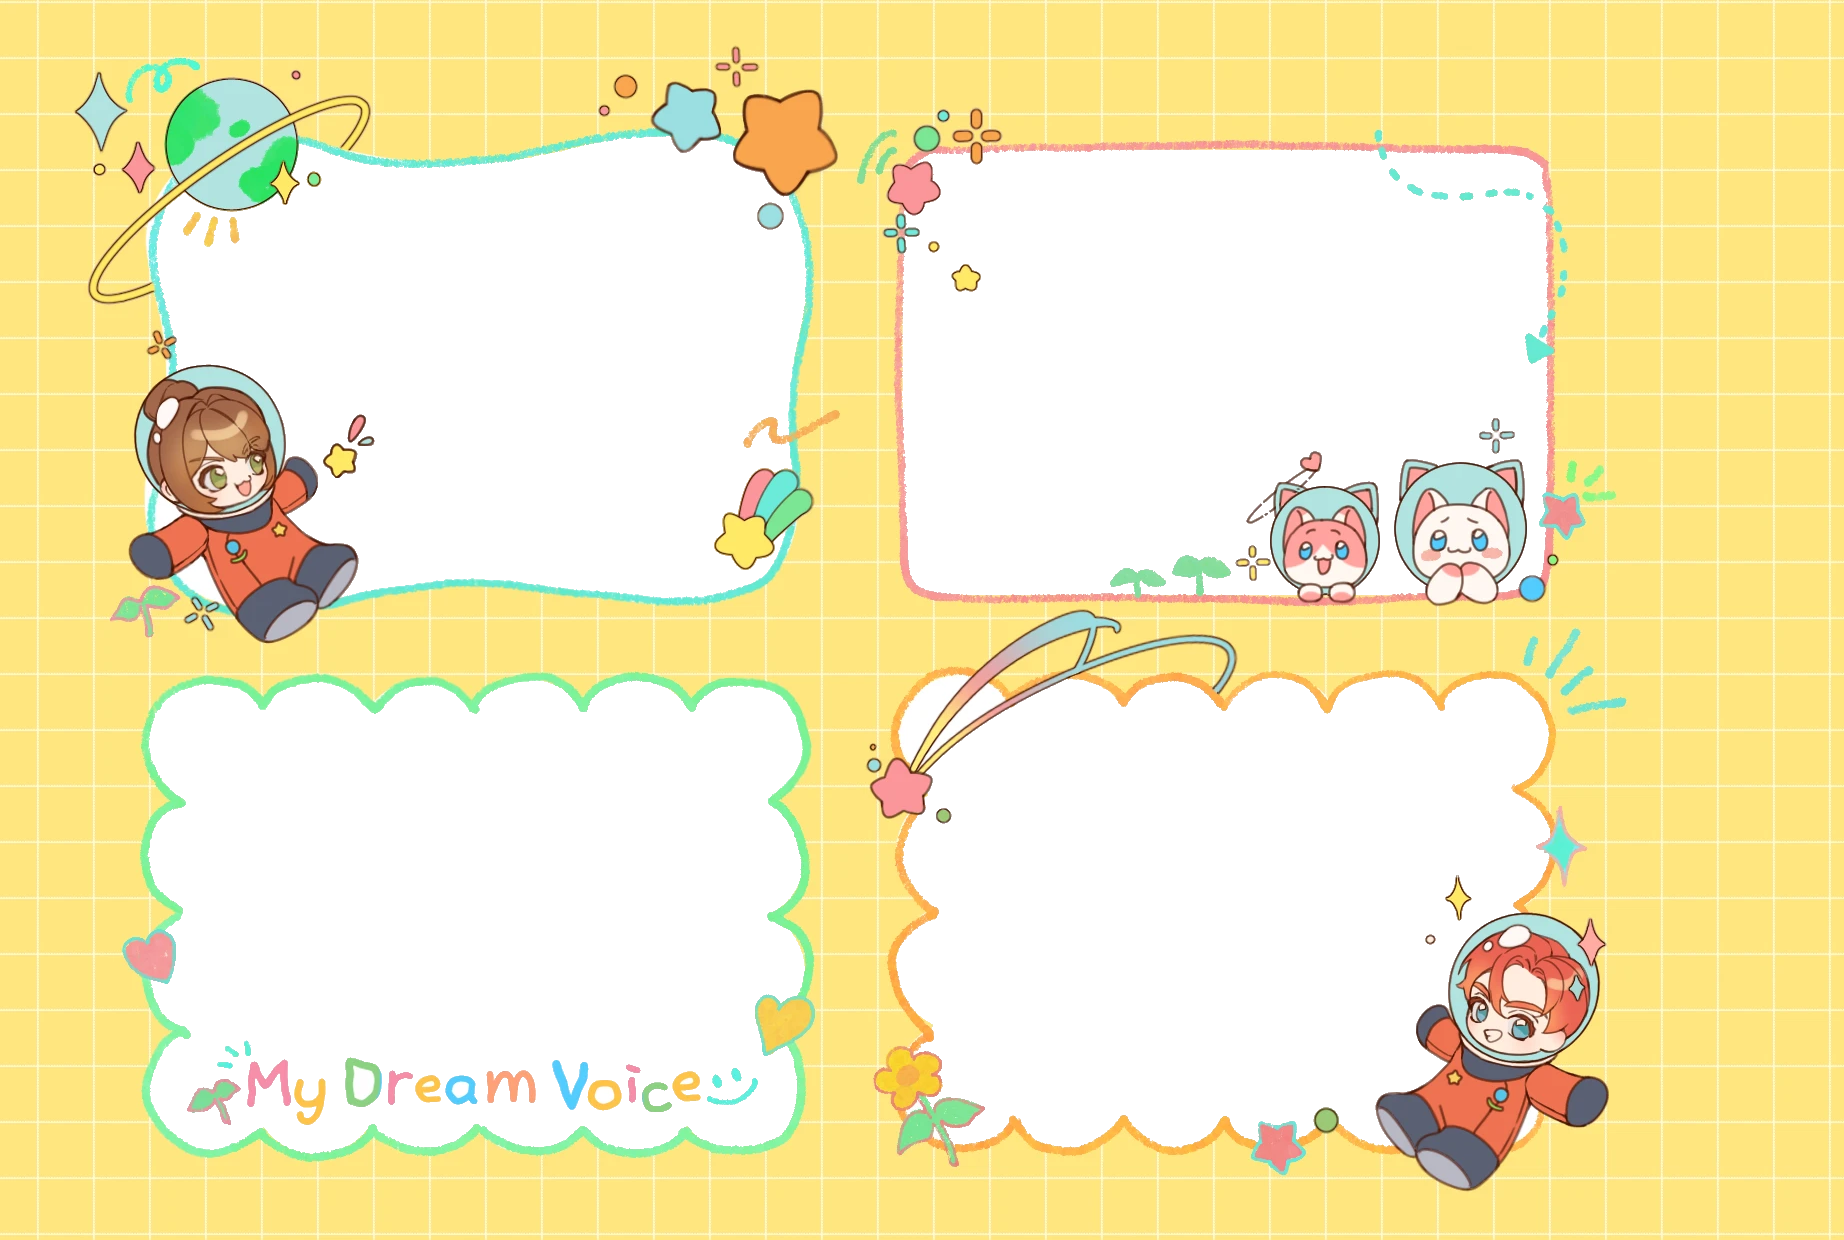
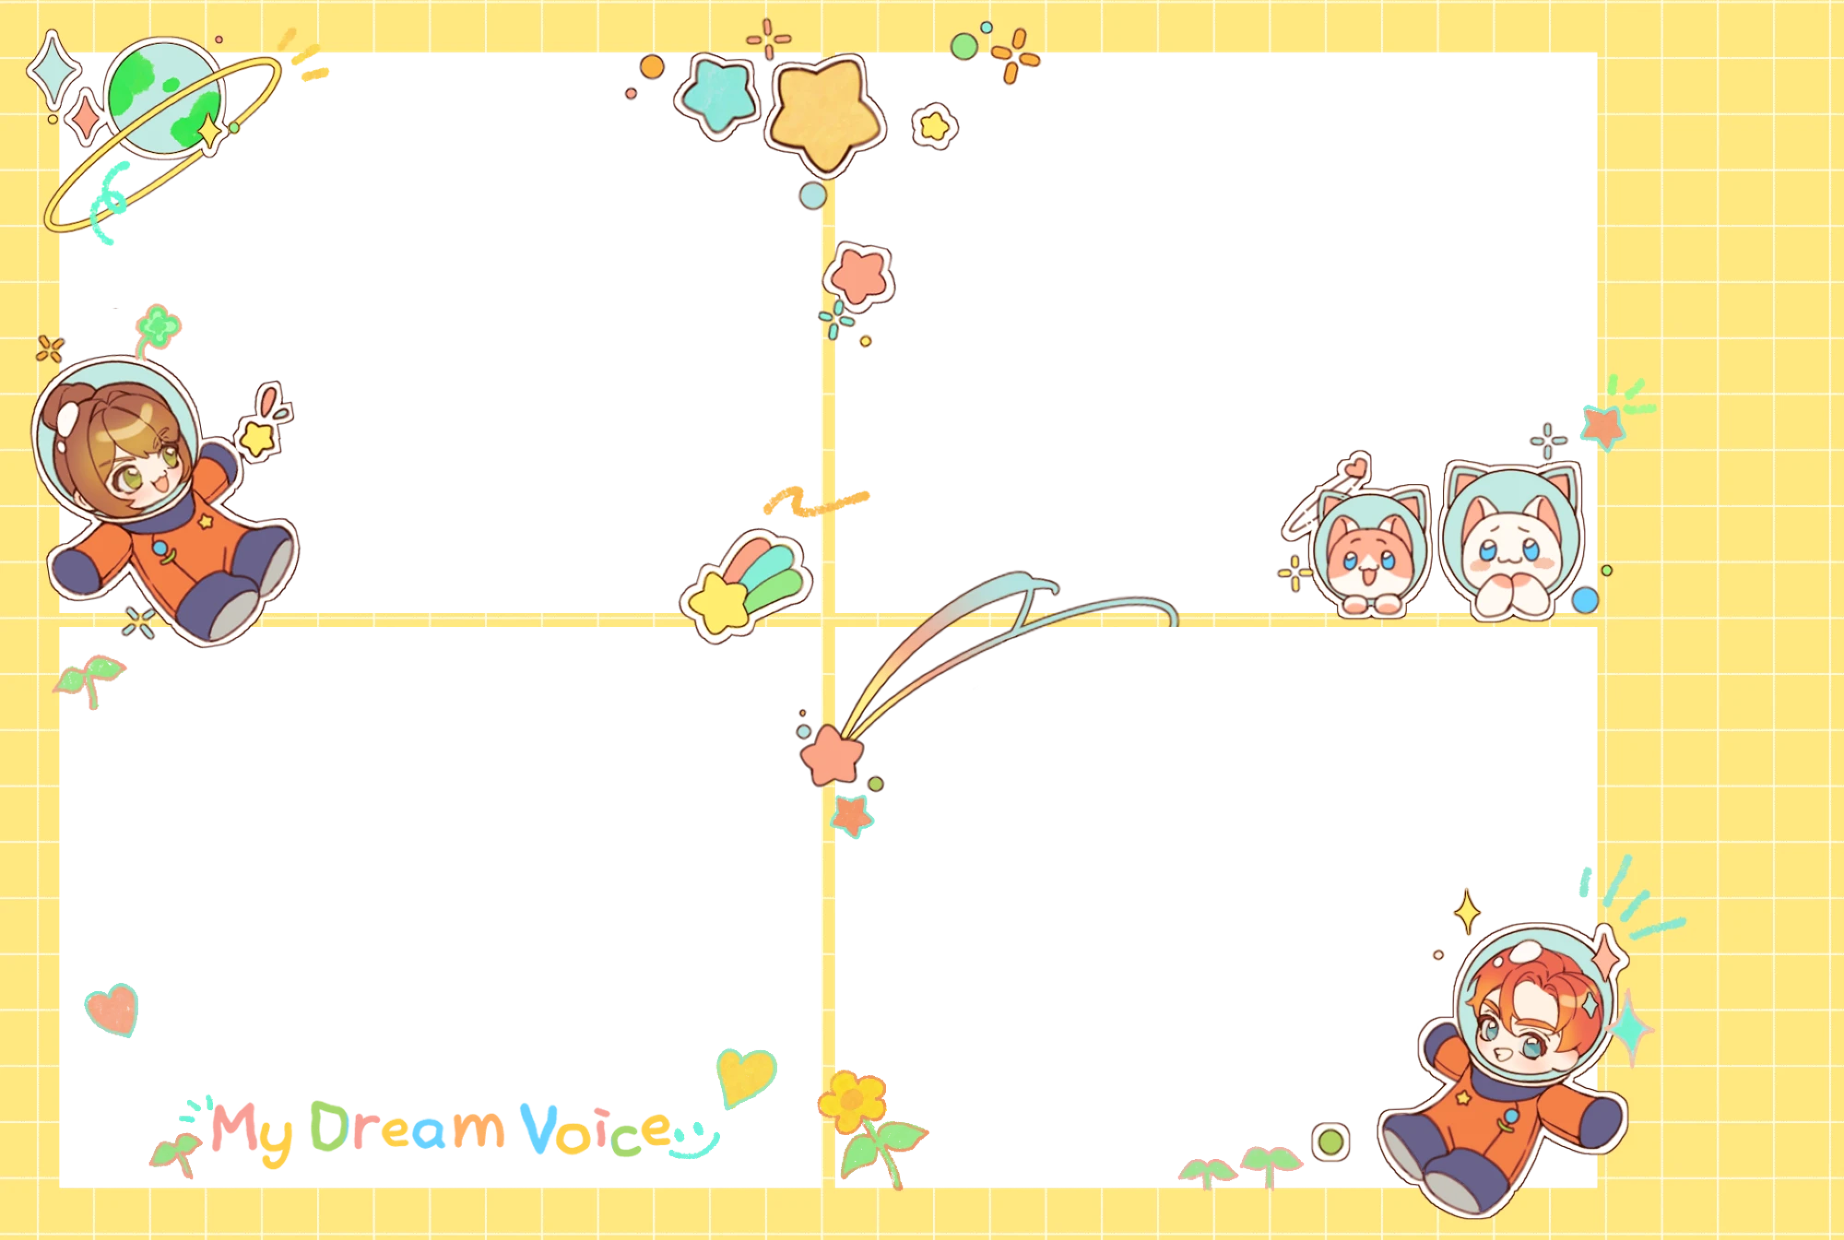
우주비행사 네컷 프레임 새 그림으로 — 칸 좌표를 직업별로(FOURCUT.cellsByJob · cellsFor)
- 새 그림 2000×1349 → 1844×1240 (칸은 이미 투명 · 옛 QR 자리 흰 네모는 격자 바탕으로 덮음)
- 우주비행사 칸 4개 768×567 (구멍 762×561 + 둘레 3px) — 나머지 5장은 그대로
- 합성 · 미리보기 · P-06 라이브뷰 비율과 겹친 프레임 · 촬영 장면 녹화가 직업 프레임의 칸을 따른다
- D-01 300dpi 확인은 가장 큰 칸 기준

diff --git a/kiosk/src/renderer/photo/recordLiveView.ts b/kiosk/src/renderer/photo/recordLiveView.ts
@@ -10,7 +10,7 @@
  *  - 기기 안에만 둔다 — 서버로 보내지 않고, 체험이 끝나면 세션 폴더째 지워진다 (CLAUDE.md 금지사항 4).
  *    이 파일은 Blob만 만든다. 저장은 화면이 window.api.video.save로 메인에 맡긴다.
  *  - 소리는 녹음하지 않는다 (영상 트랙뿐이다)
- *  - 화면에 보이는 것과 같은 가운데 잘라내기(CELL_ASPECT)로, **좌우 반전하지 않은 원본 방향**으로 담는다.
+ *  - 화면에 보이는 것과 같은 가운데 잘라내기(cellAspect — 고른 직업 프레임의 칸 비율)로, **좌우 반전하지 않은 원본 방향**으로 담는다.
  *    거울처럼 보여 주는 것은 재생하는 쪽(P-07)이 한다
  *  - ⚠ 녹화는 덤이다. 지원하지 않거나 캔버스가 잠기면(SecurityError) 조용히 영상 없이 간다.
  *    촬영 · 카운트다운을 막거나 늦추지 않도록, 여기의 어떤 함수도 예외를 던지거나 거절하지 않는다
@@ -22,7 +22,6 @@
  * TODO(디자인): 영상 길이 · 구간(컷마다 몇 초만 담을지 등)은 디자인 때 정한다 (PAGE_SPEC P-06)
  */
 
-import { CELL_ASPECT } from './composeFourCut'
 
 /** 녹화 폭 상한(px) — 라이브뷰가 더 작으면 그 크기를 쓴다 */
 const MAX_WIDTH = 960
@@ -62,9 +61,10 @@ function pickMimeType(): string | null {
 function coverCrop(
   width: number,
   height: number,
+  aspect: number,
 ): { sx: number; sy: number; sw: number; sh: number } {
-  const sw = Math.min(width, height * CELL_ASPECT)
-  const sh = Math.min(height, width / CELL_ASPECT)
+  const sw = Math.min(width, height * aspect)
+  const sh = Math.min(height, width / aspect)
   return { sx: (width - sw) / 2, sy: (height - sh) / 2, sw, sh }
 }
 
@@ -85,6 +85,8 @@ function even(n: number): number {
  */
 export function startLiveViewRecording(
   img: HTMLImageElement,
+  /** 담을 비율 — 사진 칸의 가로 ÷ 세로 (composeFourCut.cellAspect) */
+  aspect: number,
   onStatus?: (status: 'recording' | 'failed') => void,
 ): LiveViewRecording | null {
   const picked = pickMimeType()
@@ -145,7 +147,7 @@ export function startLiveViewRecording(
     const { naturalWidth, naturalHeight } = img
     if (!naturalWidth || !naturalHeight) return
     try {
-      const { sx, sy, sw, sh } = coverCrop(naturalWidth, naturalHeight)
+      const { sx, sy, sw, sh } = coverCrop(naturalWidth, naturalHeight, aspect)
       ctx.drawImage(img, sx, sy, sw, sh, 0, 0, canvas.width, canvas.height)
     } catch {
       /* 이번 장만 건너뛴다 (스트림이 잠깐 끊긴 경우 등) */
@@ -158,11 +160,11 @@ export function startLiveViewRecording(
     if (!naturalWidth || !naturalHeight) return // 아직 첫 프레임 전
 
     try {
-      const { sw } = coverCrop(naturalWidth, naturalHeight)
+      const { sw } = coverCrop(naturalWidth, naturalHeight, aspect)
       const width = even(Math.min(MAX_WIDTH, sw))
       canvas = document.createElement('canvas')
       canvas.width = width
-      canvas.height = even(width / CELL_ASPECT)
+      canvas.height = even(width / aspect)
       ctx = canvas.getContext('2d', { alpha: false })
       if (!ctx) throw new Error('2D 컨텍스트를 만들 수 없습니다')
 

diff --git a/kiosk/src/renderer/photo/composeFourCut.ts b/kiosk/src/renderer/photo/composeFourCut.ts
@@ -22,8 +22,19 @@ import { FOURCUT, type Rect } from '@shared/constants'
 import { JOB_BY_ID, jobLabel } from '@shared/jobs'
 import type { JobId } from '@shared/types'
 
+/**
+ * 그 직업 프레임의 사진 칸 4개 — 프레임마다 칸 자리가 다를 수 있다 (FOURCUT.cellsByJob · 없으면 FOURCUT.cells).
+ * 합성 · 미리보기(FramePreview) · 촬영 라이브뷰(P-06) · 촬영 장면 녹화가 모두 이것을 쓴다.
+ */
+export function cellsFor(job: JobId): readonly Rect[] {
+  return FOURCUT.cellsByJob[job] ?? FOURCUT.cells
+}
+
 /** 사진 칸 가로 ÷ 세로 — P-06 촬영 프리뷰가 이 비율로 잘라 보여 줘야 인쇄물과 같은 구도가 된다 */
-export const CELL_ASPECT: number = FOURCUT.cells[0]!.width / FOURCUT.cells[0]!.height
+export function cellAspect(job: JobId): number {
+  const cell = cellsFor(job)[0]!
+  return cell.width / cell.height
+}
 
 // ────────────────────────────────────────────────────────────
 // 프레임 아트 (있으면 쓰고, 없으면 placeholder)
@@ -204,7 +215,7 @@ function newCanvas(): { canvas: HTMLCanvasElement; ctx: CanvasRenderingContext2D
 
 /**
  * 칸을 꽉 채우도록 가운데를 잘라 그린다 (CSS object-fit: cover 와 같은 결과).
- * 카메라 원본은 3:2 — 칸 비율(CELL_ASPECT)과 다른 만큼 위아래나 좌우가 잘린다.
+ * 카메라 원본은 3:2 — 칸 비율(cellAspect)과 다른 만큼 위아래나 좌우가 잘린다.
  * **거울처럼 좌우 반전해서 그린다** (2026-11-23 지정) — P-06 라이브뷰에서 본 모습 그대로 인쇄되게
  * (오른손을 들면 사진에서도 오른쪽 · 옷의 글씨는 거꾸로). 사진만 뒤집고 프레임 그림은 뒤집지 않는다.
  */
@@ -244,13 +255,13 @@ async function drawFrame(ctx: CanvasRenderingContext2D, job: JobId): Promise<voi
 
 /**
  * 촬영한 네 컷을 고른 직업 프레임 한 장에 합성한다.
- * @param shots 컷 4개 (FOURCUT.cells 순서 — 왼쪽 위 → 오른쪽 위 → 왼쪽 아래 → 오른쪽 아래)
+ * @param shots 컷 4개 (cellsFor(job) 순서 — 왼쪽 위 → 오른쪽 위 → 왼쪽 아래 → 오른쪽 아래)
  * @returns PNG dataURL (1844 × 1240)
  */
 export async function composeFourCut(shots: ImageBitmap[], job: JobId): Promise<string> {
   const { canvas, ctx } = newCanvas()
 
-  FOURCUT.cells.forEach((cell, i) => {
+  cellsFor(job).forEach((cell, i) => {
     const shot = shots[i]
     if (shot) drawCover(ctx, shot, cell)
     else fillCell(ctx, cell) // 컷이 모자라면 빈 칸으로 — 눈에 보이게
@@ -267,7 +278,7 @@ export async function composeFourCut(shots: ImageBitmap[], job: JobId): Promise<
 export async function composePlaceholderFourCut(job: JobId): Promise<string> {
   const { canvas, ctx } = newCanvas()
 
-  FOURCUT.cells.forEach((cell, i) => {
+  cellsFor(job).forEach((cell, i) => {
     fillCell(ctx, cell)
 
     const cx = cell.x + cell.width / 2

diff --git a/kiosk/src/renderer/photo/FramePreview.tsx b/kiosk/src/renderer/photo/FramePreview.tsx
@@ -5,7 +5,7 @@
  * 근거: PAGE_SPEC P-04 · P-06 · SPEC §4-1 · 구성 스케치 docs/user-flow/wf/p04-job.svg · print.svg
  *
  * 인쇄되는 네컷(photo/composeFourCut.ts)을 화면에 작게 옮긴 것이다 — 캔버스가 아니라 DOM/CSS 로 그린다.
- * 칸 · 띠 위치는 FOURCUT 좌표를 % 로 바꿔 놓으므로 좌표를 다시 적지 않는다.
+ * 칸 · 띠 위치는 FOURCUT 좌표(칸은 직업 프레임마다 — cellsFor)를 % 로 바꿔 놓으므로 좌표를 다시 적지 않는다.
  *
  * 프레임 아트(public/frames/<jobId>.png — 직업마다 어느 파일인지는 composeFourCut.ts 의 FRAME_FILE · 2026-11-23 직업별 6장)가
  * 있으면 사진 위에 얹고,
@@ -18,7 +18,7 @@ import { useEffect, useState, type CSSProperties, type ReactNode } from 'react'
 import { FOURCUT, type Rect } from '@shared/constants'
 import { JOB_BY_ID, jobLabel } from '@shared/jobs'
 import type { JobId } from '@shared/types'
-import { PLACEHOLDER_FRAME_COPY, loadFrameArt, peekFrameArt } from './composeFourCut'
+import { PLACEHOLDER_FRAME_COPY, cellsFor, loadFrameArt, peekFrameArt } from './composeFourCut'
 import '../styles/frame.css'
 
 const pct = (value: number, of: number): string => `${(value / of) * 100}%`
@@ -34,7 +34,6 @@ function place(rect: Rect): CSSProperties {
 }
 
 const FRAME_RATIO = `${FOURCUT.width} / ${FOURCUT.height}`
-const CELL_STYLES: CSSProperties[] = FOURCUT.cells.map(place)
 const STRIP_STYLE: CSSProperties = place(FOURCUT.strip)
 
 export function FramePreview({
@@ -66,7 +65,8 @@ export function FramePreview({
   // undefined = 아직 확인 전 (한 번 확인한 직업은 peekFrameArt 로 첫 그림부터 맞게 나온다)
   const art = loaded?.job === job ? loaded.art : peekFrameArt(job)
   const kind = art === undefined ? 'pending' : art ? 'art' : 'placeholder'
-  const activeStyle = activeCell === undefined ? undefined : CELL_STYLES[activeCell]
+  const cellStyles = cellsFor(job).map(place)
+  const activeStyle = activeCell === undefined ? undefined : cellStyles[activeCell]
 
   const style = {
     aspectRatio: FRAME_RATIO,
@@ -81,7 +81,7 @@ export function FramePreview({
       aria-label={`${jobLabel(job)} 프레임`}
       style={style}
     >
-      {CELL_STYLES.map((cellStyle, i) => {
+      {cellStyles.map((cellStyle, i) => {
         const shot = shots?.[i]
         return (
           <div key={i} className="frame__cell" style={cellStyle}>

diff --git a/kiosk/src/renderer/screens/P06Capture.tsx b/kiosk/src/renderer/screens/P06Capture.tsx
@@ -28,7 +28,7 @@
 import { useEffect, useRef, useState, type CSSProperties, type ReactNode } from 'react'
 import { DevStrip, PlaceholderTag, Screen } from '../components/Screen'
 import { useSession } from '../store/session'
-import { composeFourCut, composePlaceholderFourCut, frameArtSrc } from '../photo/composeFourCut'
+import { cellAspect, cellsFor, composeFourCut, composePlaceholderFourCut, frameArtSrc } from '../photo/composeFourCut'
 import { FramePreview } from '../photo/FramePreview'
 import { startLiveViewRecording, type LiveViewRecording } from '../photo/recordLiveView'
 import { CAPTURE_INTERVAL_SEC, CUT_COUNT, FOURCUT } from '@shared/constants'
@@ -158,9 +158,9 @@ export function P06Capture(): ReactNode {
       return
     }
     const img = liveImgRef.current
-    if (!img) return
+    if (!img || !job) return
 
-    const recording = startLiveViewRecording(img, setRecState)
+    const recording = startLiveViewRecording(img, cellAspect(job), setRecState)
     recordingRef.current = recording
     setRecState(recording ? 'waiting' : 'unsupported')
 
@@ -170,7 +170,7 @@ export function P06Capture(): ReactNode {
       if (recordingRef.current === recording) recordingRef.current = null
       setRecState('idle')
     }
-  }, [liveUrl, liveCors])
+  }, [liveUrl, liveCors, job])
 
   // ── 촬영 ──
   useEffect(() => {
@@ -353,7 +353,7 @@ export function P06Capture(): ReactNode {
    * 라이브뷰 칸 = 지금 찍는 사진 칸 — 비율도 그 칸에 맞춘다 (칸마다 조금씩 다르다).
    * 그 칸 둘레의 프레임을 라이브뷰 위에 겹쳐서, 인쇄될 모습 그대로 보이게 한다 (2026-11-23 지정)
    */
-  const liveCell = FOURCUT.cells[activeCell >= 0 ? activeCell : 0]!
+  const liveCell = cellsFor(job)[activeCell >= 0 ? activeCell : 0]!
   const frameOver = {
     '--fx': liveCell.x / liveCell.width,
     '--fy': liveCell.y / liveCell.width,

diff --git a/kiosk/src/shared/constants.ts b/kiosk/src/shared/constants.ts
@@ -53,6 +53,19 @@ export const FOURCUT = {
   ] as readonly Rect[],
   /** 오른쪽 세로 띠 — 로고 자리 */
   strip: { x: 1562, y: 62, width: 220, height: 1116 } as Rect,
+  /**
+   * 칸 자리가 다른 프레임 — 직업 id → 칸 4개 (없으면 위 cells).
+   * 우주비행사 (2026-11-24 새 프레임 · 노란 격자 · 띠 없음): 투명 칸 네 개가 모두 762×561 —
+   * 그림에서 잰 구멍(59,52 · 835,52 · 59,627 · 835,627)에 둘레 3px을 더했다.
+   */
+  cellsByJob: {
+    astronaut: [
+      { x: 56, y: 49, width: 768, height: 567 },
+      { x: 832, y: 49, width: 768, height: 567 },
+      { x: 56, y: 624, width: 768, height: 567 },
+      { x: 832, y: 624, width: 768, height: 567 },
+    ],
+  } as Readonly<Record<string, readonly Rect[]>>,
 } as const
 
 /** 촬영 컷 수 */

diff --git a/kiosk/src/renderer/screens/D01HardwareCheck.tsx b/kiosk/src/renderer/screens/D01HardwareCheck.tsx
@@ -48,7 +48,8 @@ import type {
  * 네컷 인쇄에 필요한 사진 칸 1개 크기 — 카메라 프리뷰 해상도를 견주는 기준.
  * ⚠ 칸 좌표는 임시값이다 (가로 칸 726×546 — 디자이너 값이 오면 constants.ts만 바뀐다 · SPEC §4-1)
  */
-const CUT = FOURCUT.cells[0]!
+/** 가장 큰 사진 칸 — 직업 프레임마다 칸이 다를 수 있어(FOURCUT.cellsByJob) 그중 세로가 가장 긴 것으로 잰다 */
+const CUT = [...FOURCUT.cells, ...Object.values(FOURCUT.cellsByJob).flat()].reduce((a, b) => (b.height > a.height ? b : a))
 
 interface Recorded {
   path: string

diff --git a/kiosk/src/renderer/styles/capture.css b/kiosk/src/renderer/styles/capture.css
@@ -5,7 +5,7 @@
  *    값은 tokens.css 변수로 쓴다.
  *
  * 구성 (스케치 p06-shoot.svg): 왼쪽 큰 라이브뷰 · 오른쪽 직업 이름 / 컷 진행 / 프레임 미리보기.
- * 라이브뷰의 비율은 네컷 사진 칸과 같아야 한다 — P06Capture.tsx가 CELL_ASPECT를 --p06-aspect로 넘긴다.
+ * 라이브뷰의 비율은 네컷 사진 칸과 같아야 한다 — P06Capture.tsx가 지금 찍는 칸의 비율을 --p06-aspect로 넘긴다.
  * 1280×800 창과 1920×1080 모두 스크롤 없이 들어가도록 높이 · 너비 가운데 먼저 닿는 쪽에 맞춘다.
  */
 

diff --git a/kiosk/src/renderer/public/frames/README.md b/kiosk/src/renderer/public/frames/README.md
@@ -3,6 +3,8 @@
 네컷 인쇄물과 화면 미리보기(P-04 직업 카드 · P-06 촬영 옆 패널)에 얹는 **직업 프레임**을 여기에 넣는다.
 
 > **2026-11-23: 직업별 프레임 6장이 들어 있다** (경찰 보라 · 우주비행사 노랑 · 가수 분홍 · 크리에이터 살구 · 의사 초록 · 로봇개발자 하늘).
+> **2026-11-24: 우주비행사 프레임을 새 그림으로 바꿨다** — 노란 격자 바탕 · 오른쪽 띠 없음 · 사진 칸이 크고 네 칸이 같은 네모(762×561). 받은 그림(2000×1349)은 칸이 이미 투명이었다 → 1844×1244로 줄이고 위아래 2px 자름 · 오른쪽 아래 흰 네모(옛 QR 자리)는 같은 격자 15칸 위 바탕을 옮겨 덮음. 칸 자리가 나머지 5장과 달라 **`FOURCUT.cellsByJob.astronaut`** 에 따로 적었다.
+>
 > 어느 직업이 어느 파일을 쓰는지는 `src/renderer/photo/composeFourCut.ts`의 **`FRAME_FILE`** 한 곳에 있다.
 >
 > 받은 그림은 사진 칸이 흰색이고 오른쪽 아래에 QR이 있다 → 흰 사진 칸 4개를 투명하게 뚫음 · 1844×1240으로 맞춤(우주비행사 1844×1244는 위아래 2px 자름 · 나머지 5장 1527×1030은 1.2배 키우고 위아래 2px 자름) · **QR을 지움**(SPEC "인쇄물에 QR 없음" — 둘레 바둑판으로 덮음). 스티커 그림의 흰 테두리가 칸 테두리선에 겹친 곳(가수 · 크리에이터 · 로봇개발자)은 칸 밖까지 뚫리지 않게, 다른 프레임들의 칸 모양 안에서만 뚫었다.
@@ -42,7 +44,7 @@
 ## 칸 좌표
 
 사진 칸 4개와 오른쪽 띠의 좌표는 **`src/shared/constants.ts` 의 `FOURCUT`** 한 곳에만 있다.
-지금 값은 프레임 6장의 투명한 사진 칸을 모두 감싸는 네모(+3px)를 그림에서 잰 것이다 (2026-11-23 — 6장은 칸 자리 · 모양이 같은 틀이고, 칸이 물결 · 구름 모양이라 네 칸 크기가 조금씩 다르다). 프레임이 바뀌면 `FOURCUT.cells`를 다시 잰다. `FOURCUT.strip`(오른쪽 띠)은 프레임 그림이 없을 때 그리는 PLACEHOLDER 프레임에서만 쓴다.
+지금 값은 프레임 6장의 투명한 사진 칸을 모두 감싸는 네모(+3px)를 그림에서 잰 것이다 (2026-11-23 — 6장은 칸 자리 · 모양이 같은 틀이고, 칸이 물결 · 구름 모양이라 네 칸 크기가 조금씩 다르다). 프레임이 바뀌면 칸을 다시 잰다 — **칸 자리가 다른 프레임은 `FOURCUT.cellsByJob`에 직업별로** 적는다 (없으면 `FOURCUT.cells`. 지금은 우주비행사만 따로). `FOURCUT.strip`(오른쪽 띠)은 프레임 그림이 없을 때 그리는 PLACEHOLDER 프레임에서만 쓴다.
 그러면 합성(`photo/composeFourCut.ts`) · 화면 미리보기(`photo/FramePreview.tsx`) · 촬영 프리뷰 비율(P-06)이 따라온다.
 
 - 코드는 사진을 `FOURCUT.cells` 의 네모에 꽉 채워 그린다. 프레임의 투명 구멍이 이 네모보다 **크면 흰 틈이 보인다** — 구멍은 칸 좌표와 같거나 조금 작게.
